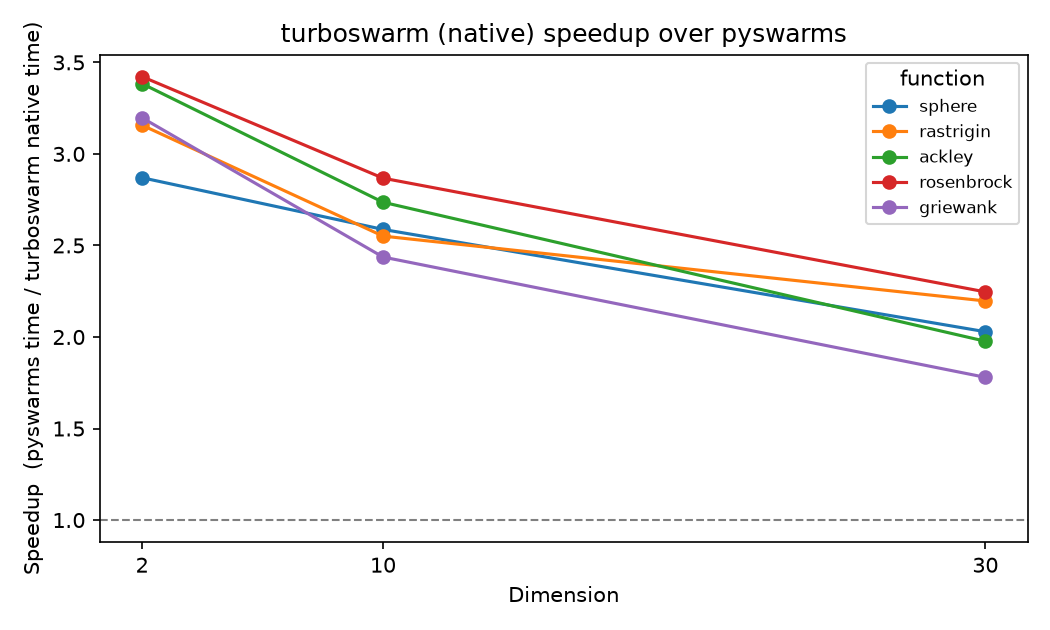
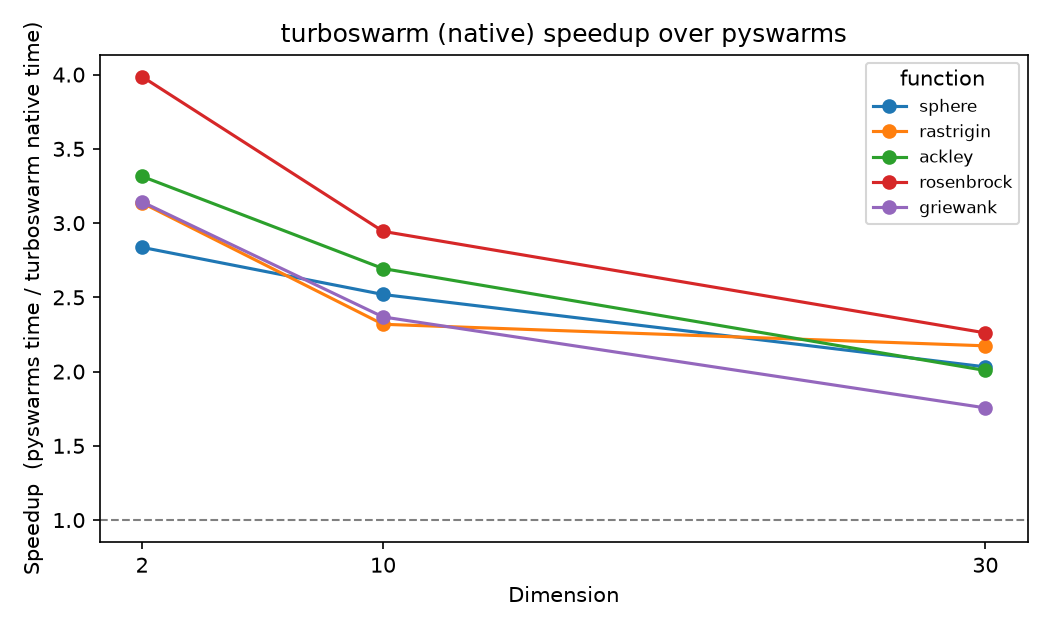
Benchmarks: add DEAP baseline to the comparison suite

diff --git a/benches/bench_suite.py b/benches/bench_suite.py
@@ -9,6 +9,9 @@ coefficients for every library. Each library is driven idiomatically:
   - pyswarms:             vectorized NumPy objective.
   - pyswarm:              scalar Python objective.
   - pymoo:                vectorized Problem, fixed-coefficient PSO.
+  - DEAP:                 scalar objective; DEAP ships no packaged PSO, so its
+                          canonical example recipe is used, adapted to the same
+                          inertia rule (w, c1, c2) and bound clamping for fairness.
 
 Methodology
 -----------
@@ -24,7 +27,7 @@ Outputs (under benches/results/):
   - speedup.png   : speedup of turboswarm (native) vs pyswarms across dimensions.
 
 Usage:
-    pip install pyswarms pyswarm pymoo
+    pip install pyswarms pyswarm pymoo deap
     python benches/bench_suite.py
     python benches/bench_suite.py --markdown   # also print a Markdown table
 
@@ -205,18 +208,60 @@ def run_pymoo(name, bound, dim):
     return timed_over_seeds(one)
 
 
+def run_deap(name, bound, dim):
+    # DEAP ships no packaged PSO, so we use its canonical example recipe,
+    # adapted to the same inertia rule (w, c1, c2) and bound clamping as the
+    # other libraries (its stock example uses U(0, phi) and no inertia weight).
+    import random
+    from deap import base, creator
+    if not hasattr(creator, "FitnessMin"):
+        creator.create("FitnessMin", base.Fitness, weights=(-1.0,))
+    if not hasattr(creator, "Particle"):
+        creator.create("Particle", list, fitness=creator.FitnessMin,
+                       speed=list, best=None)
+    f = SCALAR[name]
+    pmin, pmax = -bound, bound
+
+    def one(seed):
+        random.seed(seed)
+        pop = []
+        for _ in range(N_PARTICLES):
+            part = creator.Particle(random.uniform(pmin, pmax) for _ in range(dim))
+            part.speed = [0.0] * dim
+            pop.append(part)
+        best = best_fit = None
+        for _ in range(ITERS):
+            for part in pop:
+                fit = f(part)
+                if part.best is None or part.best_fit > fit:
+                    part.best, part.best_fit = part[:], fit
+                if best is None or best_fit > fit:
+                    best, best_fit = part[:], fit
+            for part in pop:
+                for i in range(dim):
+                    v = (W * part.speed[i]
+                         + C1 * random.random() * (part.best[i] - part[i])
+                         + C2 * random.random() * (best[i] - part[i]))
+                    part.speed[i] = v
+                    xi = part[i] + v
+                    part[i] = pmax if xi > pmax else pmin if xi < pmin else xi
+        return best_fit
+    return timed_over_seeds(one)
+
+
 RUNNERS = [
     ("turboswarm (native)", run_turboswarm_native),
     ("turboswarm (py)", run_turboswarm_py),
     ("pyswarms", run_pyswarms),
     ("pyswarm", run_pyswarm),
     ("pymoo", run_pymoo),
+    ("DEAP", run_deap),
 ]
 
 
 def lib_versions():
     versions = {"turboswarm": getattr(ts, "__version__", "unknown")}
-    for mod in ("pyswarms", "pyswarm", "pymoo", "numpy"):
+    for mod in ("pyswarms", "pyswarm", "pymoo", "deap", "numpy"):
         try:
             versions[mod] = __import__(mod).__version__
         except Exception: